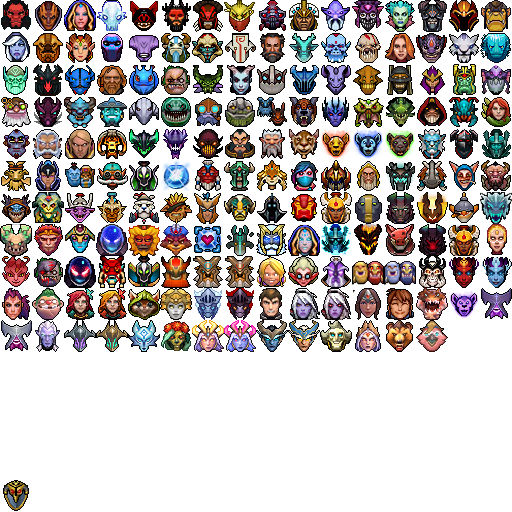
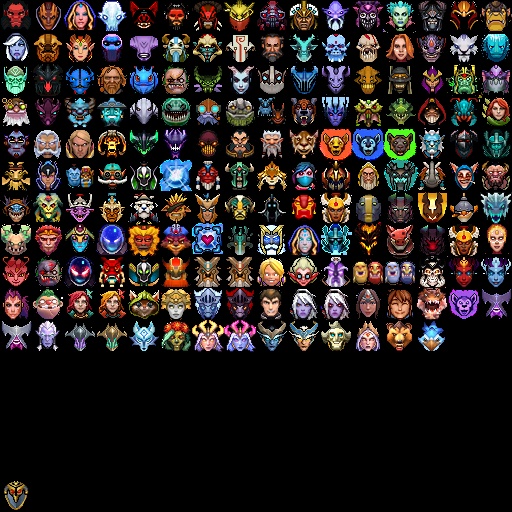
add kez

diff --git a/demo.html b/demo.html
@@ -711,6 +711,10 @@
             <td>druid_bear, npc_dota_lone_druid_bear</td>
         </tr>
         <tr>
+            <td><i class="d2mh kez"></i></td>
+            <td>kez, npc_dota_hero_kez, hero-145</td>
+        </tr>
+        <tr>
             <td><i class="d2mh "></i></td>
             <td>, unit_no_cc</td>
         </tr>

diff --git a/assets/stylesheets/dota2minimapheroes.css b/assets/stylesheets/dota2minimapheroes.css
@@ -698,6 +698,10 @@
     background-position: -384px -320px;
 }
 
+.d2mh.kez, .d2mh.npc_dota_hero_kez, .d2mh.hero-145 { 
+    background-position: -416px -320px;
+}
+
 .d2mh., .d2mh.unit_no_cc { 
     background-position: -0px -480px;
 }
